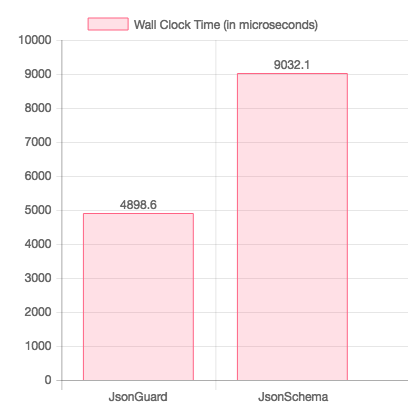
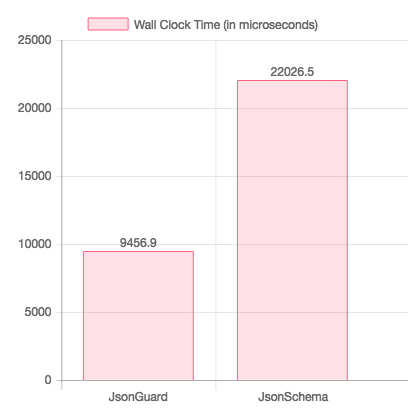
update to latest lib versions

diff --git a/src/JsonSchemaAdapter.php b/src/JsonSchemaAdapter.php
@@ -11,14 +11,9 @@ class JsonSchemaAdapter implements ValidatorAdapter
      */
     public function validate($data, $schemaPath)
     {
-        $refResolver = new JsonSchema\RefResolver(
-            new JsonSchema\Uri\UriRetriever(),
-            new JsonSchema\Uri\UriResolver()
-        );
-
-        $schema = $refResolver->resolve('file://' . $schemaPath);
-
+        $schema    = (object)['$ref' => 'file://' . $schemaPath];
         $validator = new JsonSchema\Validator();
+
         $validator->check($data, $schema);
         return $validator->isValid();
     }

diff --git a/README.md b/README.md
@@ -37,8 +37,8 @@ This test checks the performance of validating the meta schema which defines JSO
 
 | Validator | Wall Clock Time (in microseconds) |
 |-----------|:---------------------------------:|
-| JsonGuard | 14833.8 |
-| JsonSchema | 80698.6 |
+| JsonGuard | 35239.8 |
+| JsonSchema | 255050.7 |
 
 ### Memory usage
 
@@ -46,8 +46,8 @@ This test checks the performance of validating the meta schema which defines JSO
 
 | Validator | Peak Memory Usage (in bytes) |
 |-----------|:----------------------------:|
-| JsonGuard | 137486.4 |
-| JsonSchema | 161334.4 |
+| JsonGuard | 137595.2 |
+| JsonSchema | 180880 |
 
 ## Composer Schema Validaton
 
@@ -61,8 +61,8 @@ This test checks the performance of validating a composer.json file against the 
 
 | Validator | Wall Clock Time (in microseconds) |
 |-----------|:---------------------------------:|
-| JsonGuard | 4898.6 |
-| JsonSchema | 9032.1 |
+| JsonGuard | 9456.9 |
+| JsonSchema | 22026.5 |
 
 ### Memory usage
 
@@ -71,7 +71,7 @@ This test checks the performance of validating a composer.json file against the 
 | Validator | Peak Memory Usage (in bytes) |
 |-----------|:----------------------------:|
 | JsonGuard | 142152 |
-| JsonSchema | 169544 |
+| JsonSchema | 210888 |
 
 ## Draft Four Compliance
 
@@ -86,7 +86,7 @@ This test uses the official JSON Schema test suite to determine the validator's 
 | Validator | Total Test Failures |
 |-----------|:---------------------------------:|
 | JsonGuard | 0 |
-| JsonSchema | 12 |
+| JsonSchema | 19 |
 
 
 ### JsonGuard
@@ -95,9 +95,15 @@ No test failures.
 
 ### JsonSchema
 
+* invalid definition : invalid definition schema
 * forbidden property : property absent
+* nested refs : nested ref invalid
+* remote ref, containing refs itself : remote ref invalid
+* remote ref : remote ref invalid
+* fragment within remote ref : remote fragment invalid
+* ref within remote ref : ref within ref invalid
 * change resolution scope : changed scope ref valid
-* change resolution scope : changed scope ref valid
+* change resolution scope : changed scope ref invalid
 * change resolution scope : changed scope ref invalid
 * integer : a bignum is an integer
 * number : a bignum is a number
@@ -107,6 +113,7 @@ No test failures.
 * integer comparison : comparison works for very negative numbers
 * float comparison with high precision on negative numbers : comparison works for very negative numbers
 * validation of URIs : a valid protocol-relative URI
+* validation of host names : a host name with a component too long
 
 
 ## Credits

diff --git a/reports/draft-four-compliance.md b/reports/draft-four-compliance.md
@@ -11,7 +11,7 @@ This test uses the official JSON Schema test suite to determine the validator's 
 | Validator | Total Test Failures |
 |-----------|:---------------------------------:|
 | JsonGuard | 0 |
-| JsonSchema | 12 |
+| JsonSchema | 19 |
 
 
 ### JsonGuard
@@ -20,9 +20,15 @@ No test failures.
 
 ### JsonSchema
 
+* invalid definition : invalid definition schema
 * forbidden property : property absent
+* nested refs : nested ref invalid
+* remote ref, containing refs itself : remote ref invalid
+* remote ref : remote ref invalid
+* fragment within remote ref : remote fragment invalid
+* ref within remote ref : ref within ref invalid
 * change resolution scope : changed scope ref valid
-* change resolution scope : changed scope ref valid
+* change resolution scope : changed scope ref invalid
 * change resolution scope : changed scope ref invalid
 * integer : a bignum is an integer
 * number : a bignum is a number
@@ -32,3 +38,4 @@ No test failures.
 * integer comparison : comparison works for very negative numbers
 * float comparison with high precision on negative numbers : comparison works for very negative numbers
 * validation of URIs : a valid protocol-relative URI
+* validation of host names : a host name with a component too long

diff --git a/reports/validating-the-meta-schema.md b/reports/validating-the-meta-schema.md
@@ -10,8 +10,8 @@ This test checks the performance of validating the meta schema which defines JSO
 
 | Validator | Wall Clock Time (in microseconds) |
 |-----------|:---------------------------------:|
-| JsonGuard | 14833.8 |
-| JsonSchema | 80698.6 |
+| JsonGuard | 35239.8 |
+| JsonSchema | 255050.7 |
 
 ### Memory usage
 
@@ -19,5 +19,5 @@ This test checks the performance of validating the meta schema which defines JSO
 
 | Validator | Peak Memory Usage (in bytes) |
 |-----------|:----------------------------:|
-| JsonGuard | 137486.4 |
-| JsonSchema | 161334.4 |
+| JsonGuard | 137595.2 |
+| JsonSchema | 180880 |

diff --git a/reports/validating-composer.md b/reports/validating-composer.md
@@ -10,8 +10,8 @@ This test checks the performance of validating a composer.json file against the 
 
 | Validator | Wall Clock Time (in microseconds) |
 |-----------|:---------------------------------:|
-| JsonGuard | 4898.6 |
-| JsonSchema | 9032.1 |
+| JsonGuard | 9456.9 |
+| JsonSchema | 22026.5 |
 
 ### Memory usage
 
@@ -20,4 +20,4 @@ This test checks the performance of validating a composer.json file against the 
 | Validator | Peak Memory Usage (in bytes) |
 |-----------|:----------------------------:|
 | JsonGuard | 142152 |
-| JsonSchema | 169544 |
+| JsonSchema | 210888 |
